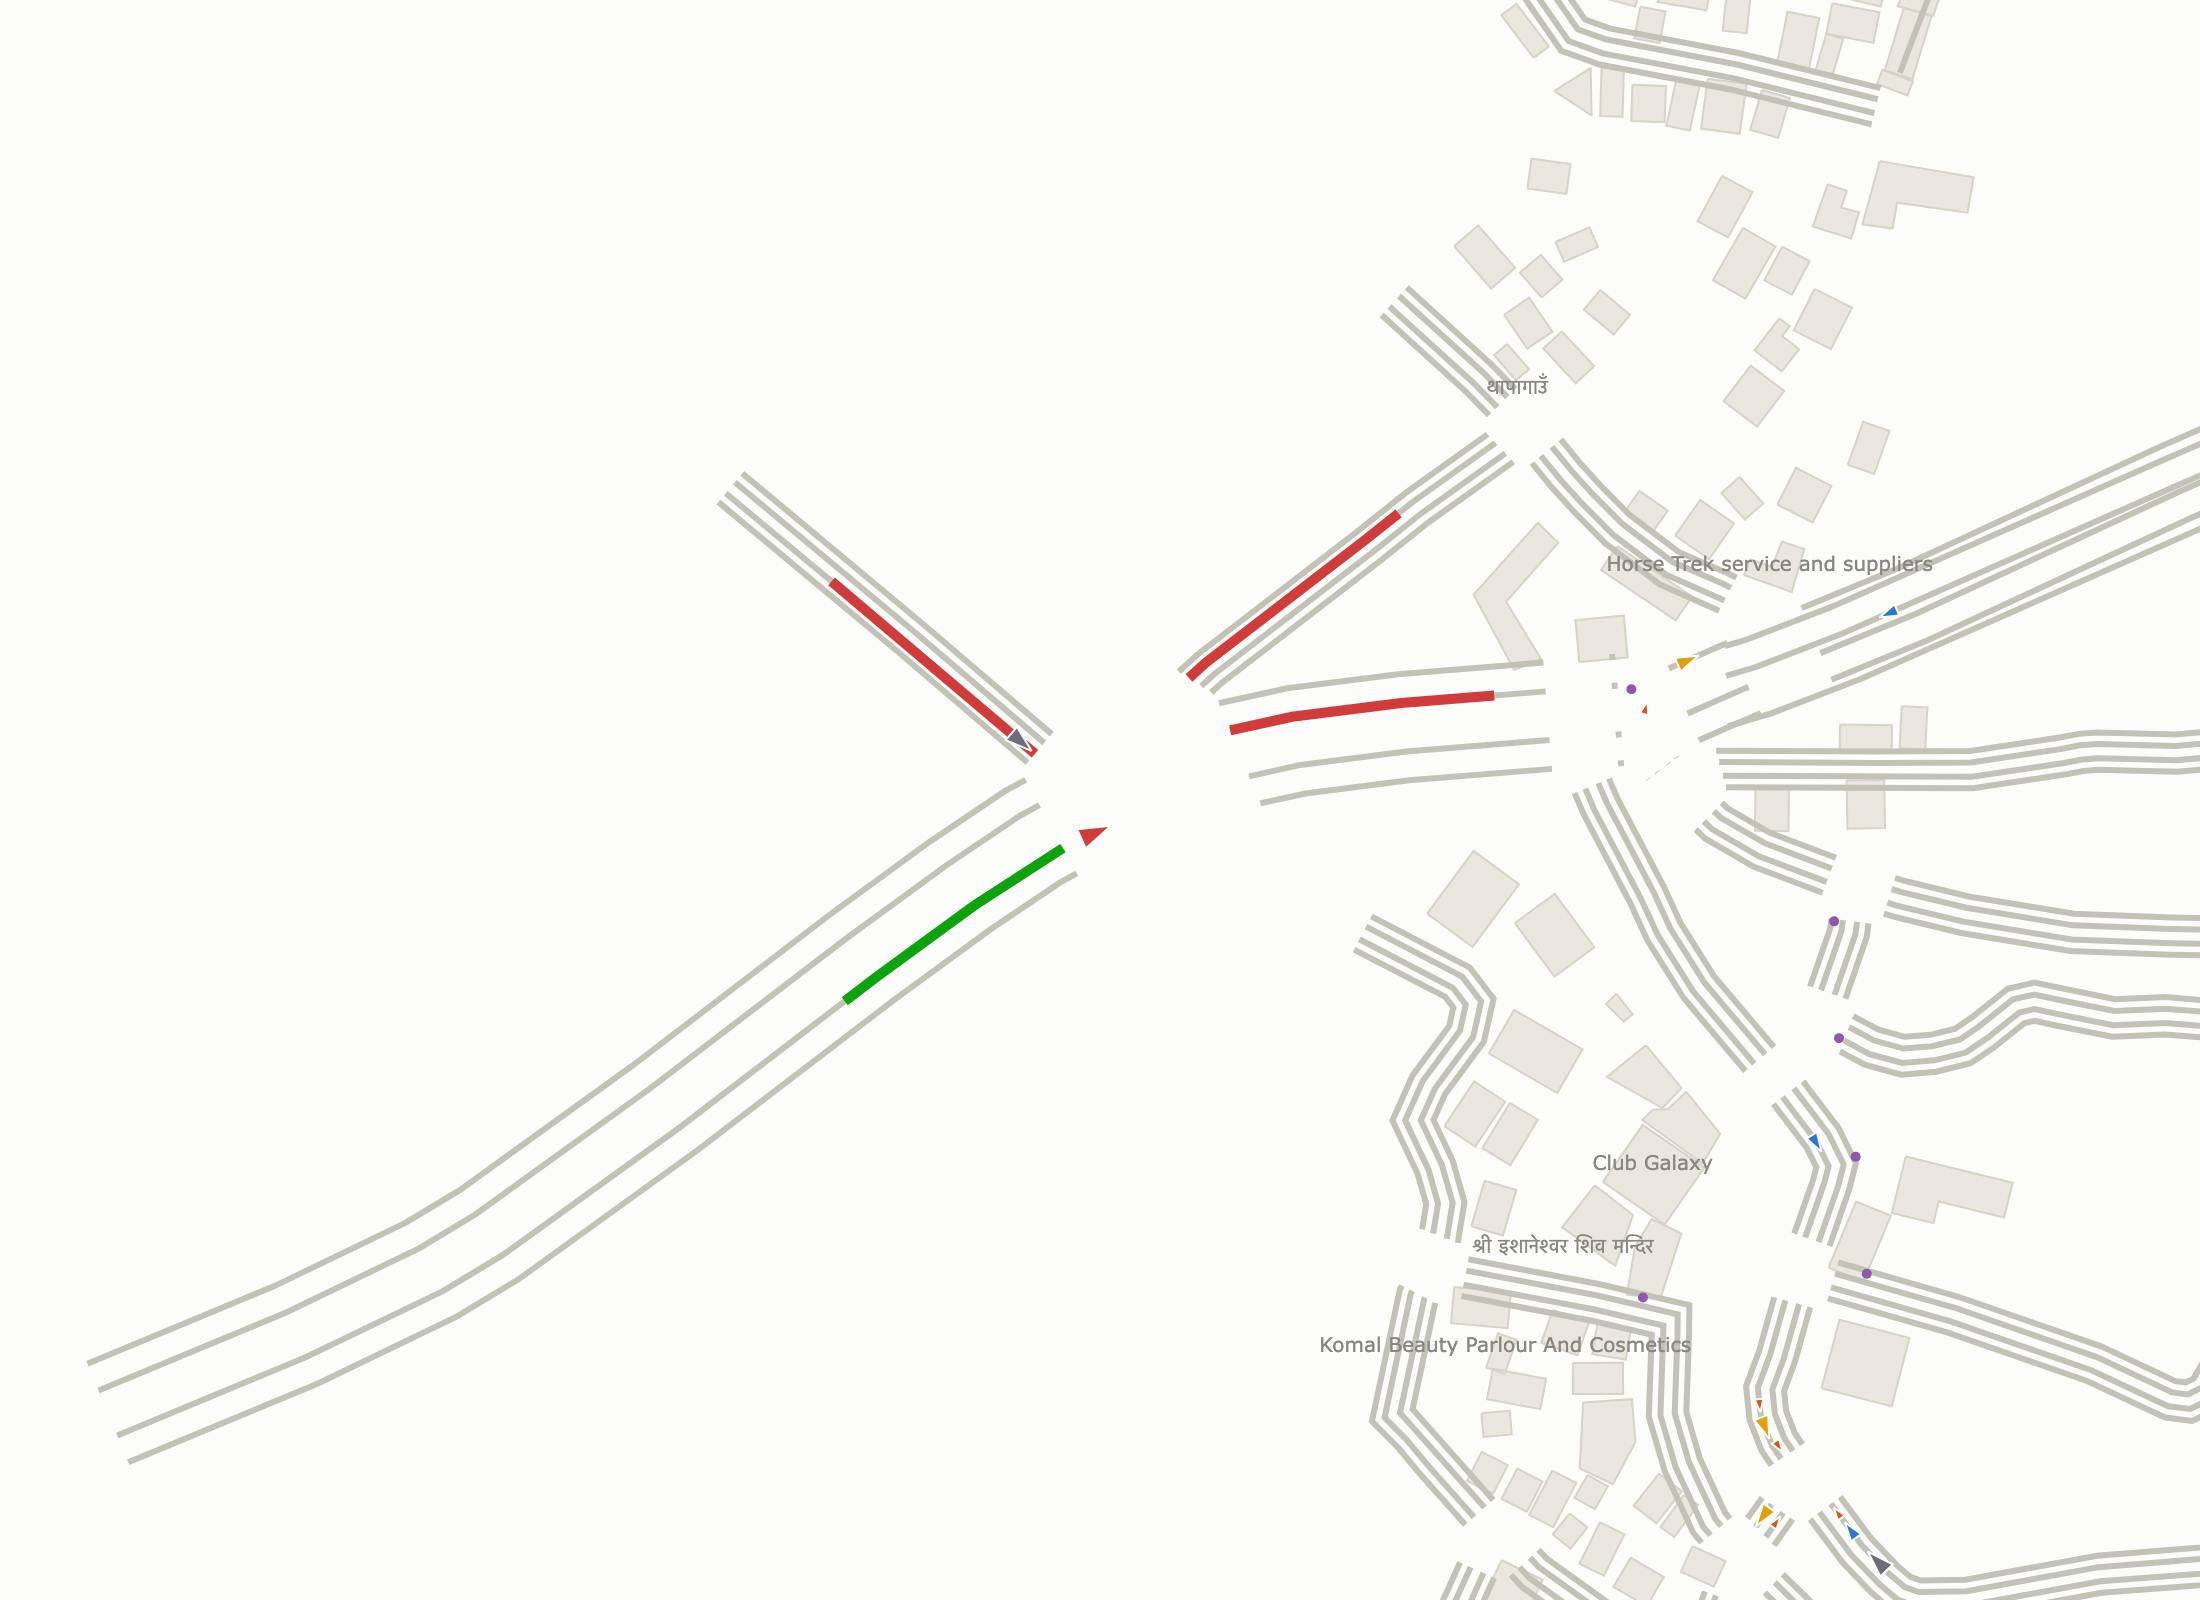
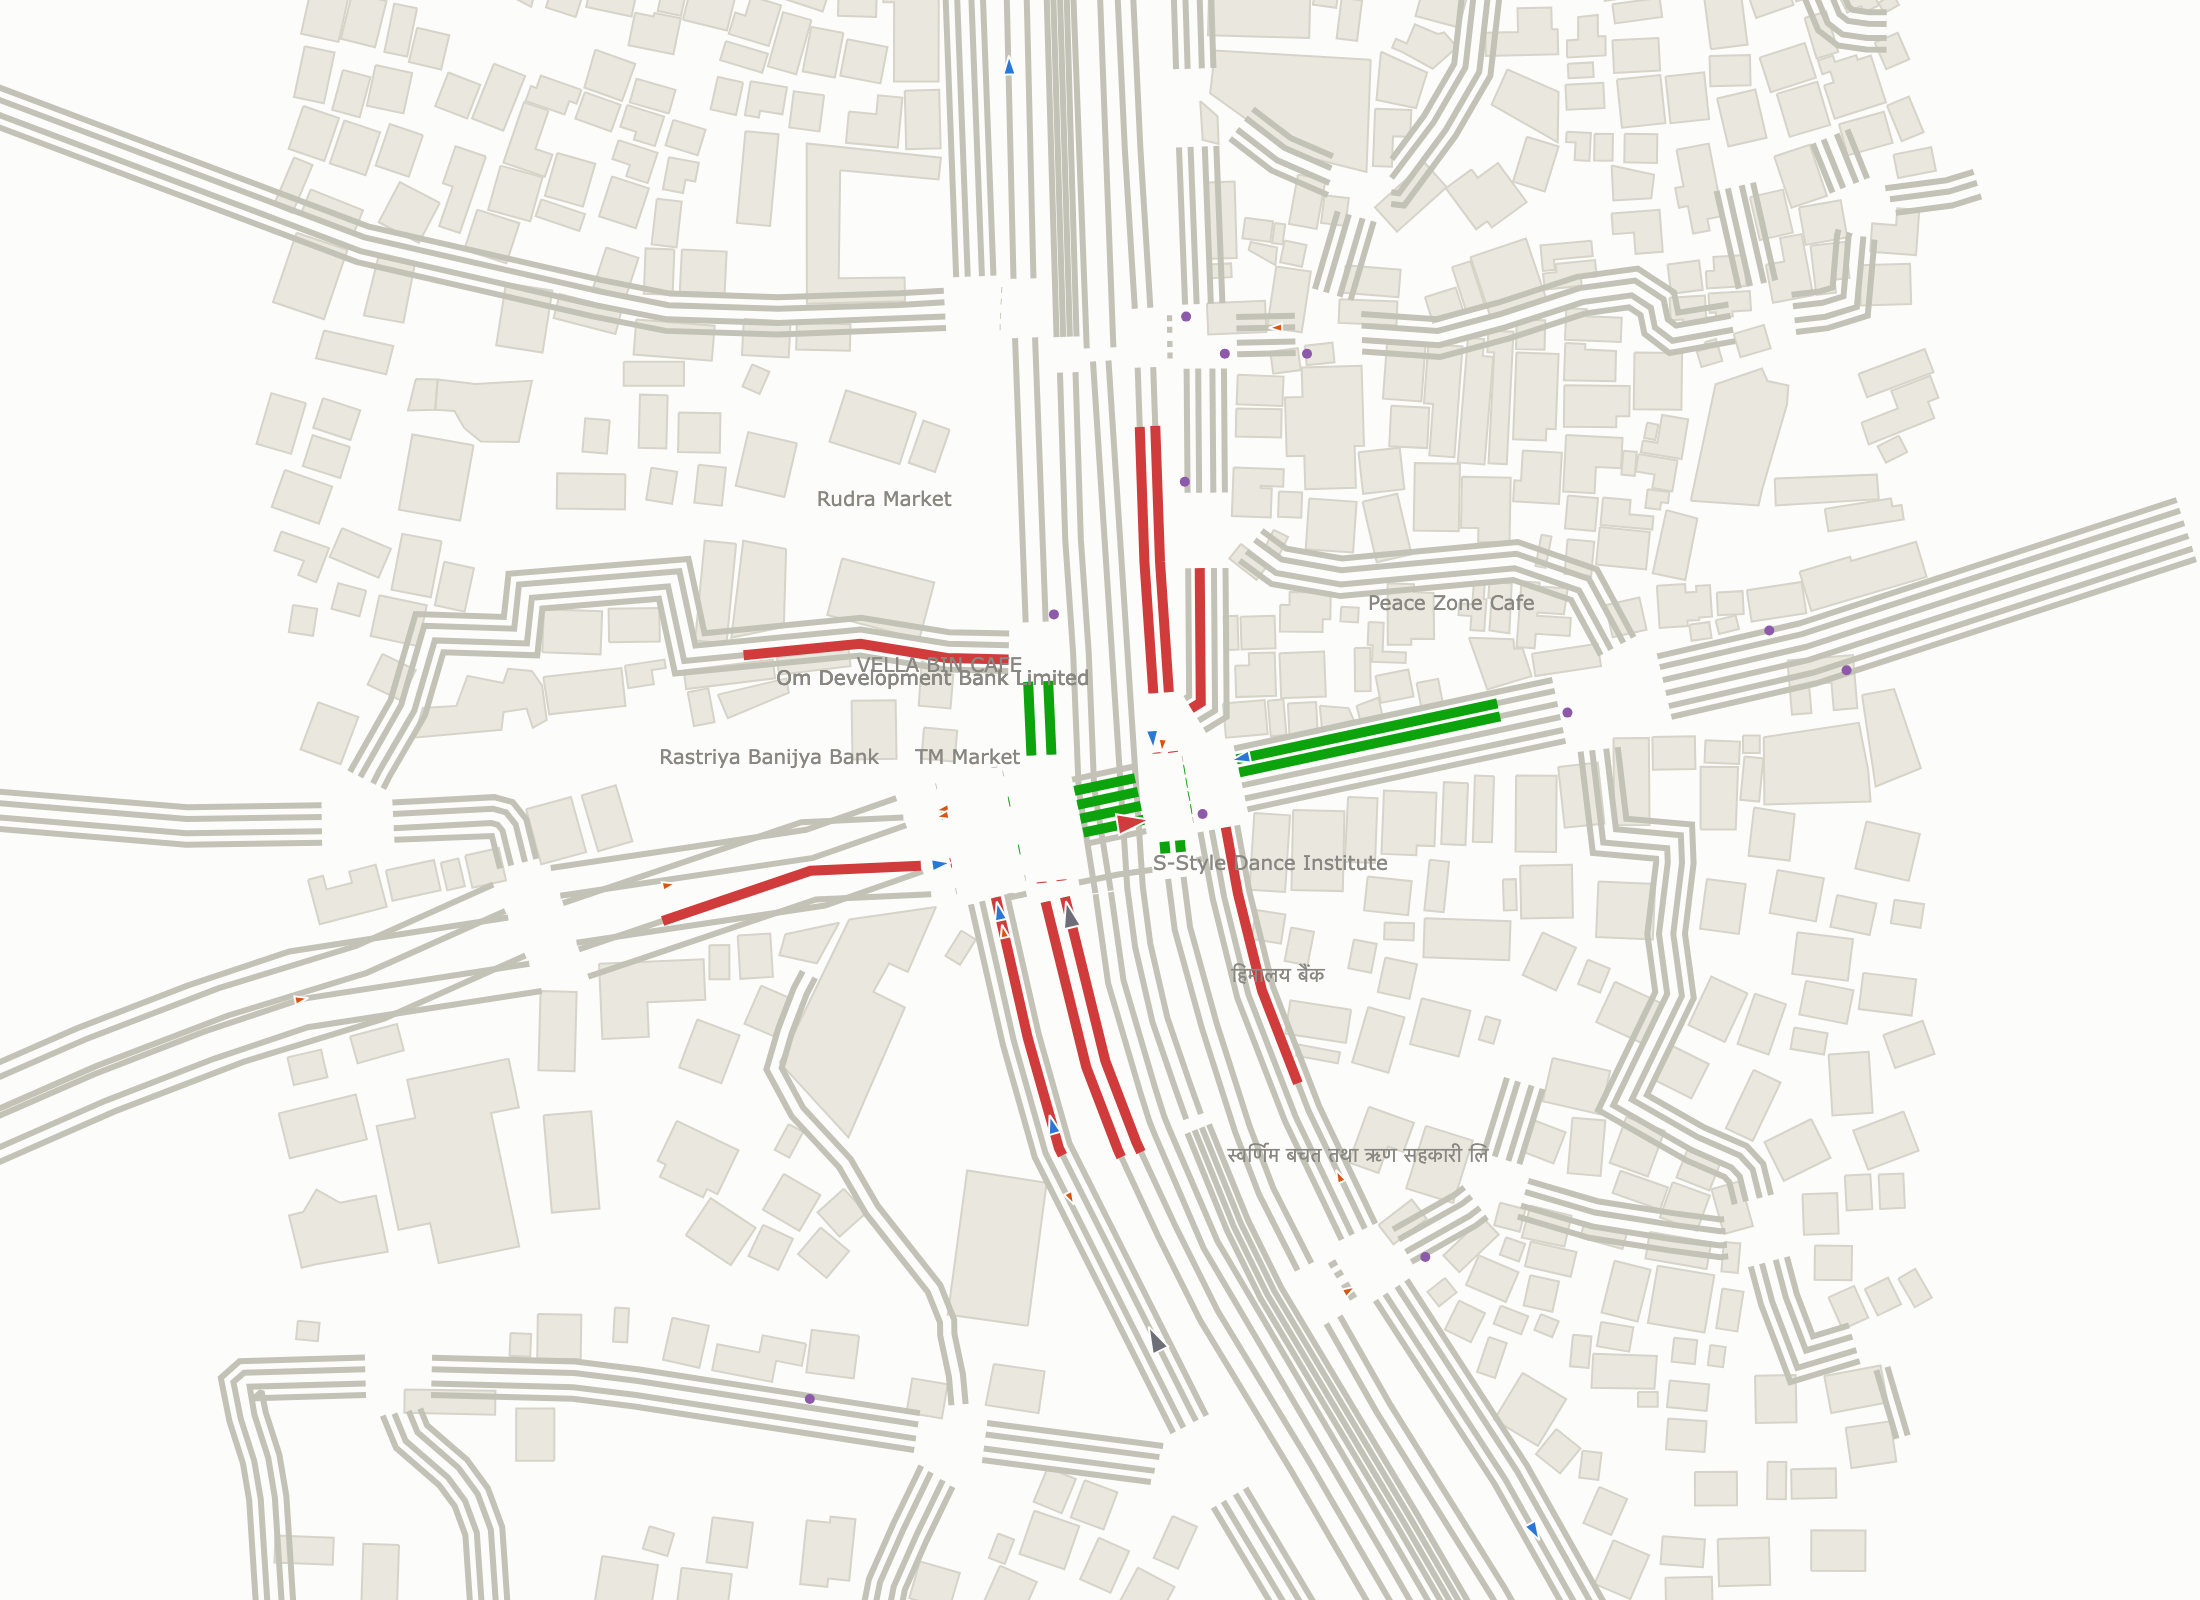
docs+ml: real-chowk headline (80% ± 4), retrained RF, new screenshots
ML retrained on the new junction's demand range: 402 rows, R² 0.777,
MAE 4.4 s. Final 5-seed headline on the true Kalanki Chowk: wait cut
80% ± 4 (72–84%), 1363 -> 276 s/cycle, throughput up on every seed
(150 -> 161). README/VIVA_QA/DEMO_SCRIPT rewritten for the real
interchange (underpass + joint signal), including an honest answer for
'why 80% now, not 97%'. Screenshots re-shot on the real chowk.

diff --git a/docs/VIVA_QA.md b/docs/VIVA_QA.md
@@ -7,13 +7,14 @@ A fixed timer gives every approach the same green (25 s here) in strict
 rotation regardless of demand — empty lanes waste green while queued lanes
 overflow. Adaptive control measures each approach every cycle (vehicle count
 + accumulated waiting time) and allocates green proportional to demand. On
-identical peak demand at the real 8-phase Kalanki junction (with sublane
-motorbike weaving on), our adaptive mode cut average junction wait
-97.2% ± 0.7 (96.3–98.1% across 5 random seeds; mean 354 → 10 s/cycle) at
-essentially unchanged throughput (330 → 326 mean) — the fixed timer wastes
-whole green slots on empty turn phases, the adaptive controller skips
-them. The spread across seeds shows it is not one lucky run: the per-seed
-table is in the dashboard and logs/.
+identical peak demand at the true Kalanki Chowk — the joint signal over
+the whole surface interchange, Ring Road underpass flowing beneath — our
+adaptive mode cut average junction wait 80% ± 4 (72–84% across 5 random
+seeds; mean 1363 → 276 s/cycle) and moved more vehicles on every seed
+(mean throughput 150 → 161) — the fixed timer wastes whole green slots on
+empty approaches, the adaptive controller skips them. The spread across
+seeds shows it is not one lucky run: the per-seed table is in the
+dashboard and logs/.
 
 **2. How is green time computed?**
 Two estimates blended. Rule: `green = vehicle_count × 2 s/vehicle`, clamped
@@ -49,10 +50,10 @@ Automatic; re-triggering is idempotent (the original snapshot is kept).
 ## Second ring
 
 **Why Random Forest?**
-Tabular data, small dataset (438 rows), non-linear interactions between
+Tabular data, small dataset (402 rows), non-linear interactions between
 count/wait/growth-rate, no GPU, and interpretable feature importances. It
-beat LinearRegression and a single DecisionTree on held-out data (R² 0.576,
-MAE 2.7 s). Deep learning would be unjustifiable at this data size.
+beat LinearRegression and a single DecisionTree on held-out data (R² 0.78,
+MAE 4.4 s). Deep learning would be unjustifiable at this data size.
 
 **Where does the training label come from?**
 For each control cycle we measure the discharge rate actually observed
@@ -91,22 +92,23 @@ TraCI traffic single-threaded.
 
 **How are pedestrians handled?**
 The network is rebuilt with guessed sidewalks and zebra crossings (337 at/
-around Kalanki); 1800 persons walk and cross during a run. Crossings are
+around Kalanki); ~1200 persons walk and cross during a run. Crossings are
 signal links inside the same TLS state strings, so they get their walk
 signal within the compatible vehicle phases netconvert paired them with.
 The controller's approach discovery skips pedestrian-only phases so a
 crossing never gets treated as a vehicle approach.
 
-**Why did the wait reduction jump from ~73% to ~97%?**
-The realistic rebuild exposed the junction's true 8 signal phases (straight
-+ protected turns) instead of 4. A fixed timer must give each of the 8
-phases an equal 25 s slot — 240 s cycles with green burned on empty turn
-phases — while the adaptive controller simply skips what is empty. Bigger,
-more realistic junction → bigger advantage for adaptive control.
+**Earlier drafts claimed ~97% — why is the final headline 80%?**
+Because the junction got real. Early numbers came from a simpler junction
+500 m from the actual chowk; rebuilding on the true Kalanki Chowk (a joint
+signal across the whole surface interchange, the Ring Road underpass
+underneath, calibrated demand, pedestrians) makes the problem much harder
+and the baseline less absurd. 80% ± 4 on the honest junction — with
+throughput UP on every seed — is the defensible number.
 
 **Limitations (be honest, it scores points)**
 Simulated demand (though the mix is calibrated to Kathmandu shares), one
-junction (no corridor coordination), and the ML dataset is modest (438
+junction (no corridor coordination), and the ML dataset is modest (402
 rows — more episodes would improve it). Motorbike weaving IS modeled:
 SUMO's sublane model runs with 0.4 m lateral resolution, and motorbikes
 (latAlignment="arbitrary", tight lateral gaps, high lcPushy/lcSublane)

diff --git a/docs/BUILD_LOG.md b/docs/BUILD_LOG.md
@@ -206,3 +206,37 @@ check results, and anything the user must verify or fix.
 - README gained real screenshots (docs/img/): the live dashboard map mid
   ambulance-dispatch and the zoomed sumo-gui view.
 - 52 tests green; every increment committed + pushed.
+
+## Phase 10 — the real Kalanki Chowk ✅ verified
+
+Triggered by Biraj's Google Maps cross-check: the signalized junction was
+a Rajpath junction ~500 m west of the actual chowk.
+
+- **Correct junction**: build picks the node where the most distinct named
+  roads meet (Tribhuvan Rajpath × Ring Road × Kalanki), then signalizes
+  the chowk's whole surface web (10 nodes) as one joint TLS. Tunnel nodes
+  are detected from OSM `tunnel=yes` ways and excluded — the **real
+  Kalanki underpass** carries the Ring Road beneath the signal,
+  uncontrolled, exactly like the built structure. (Merging the web into
+  one node via <join> was tried and rejected: lost approaches, worse
+  waits.) 8 operator approaches with real street names.
+- **Auto-shutdown fixed**: demand now runs to 7200 s and `--steps 0`
+  (new CLI default) runs until the window closes.
+- **Names in sumo-gui**: "Kalanki Chowk" label at the junction (POI id
+  carries the text — poiName renders ids; NBSP for spaces; Devanagari
+  dropped, X11 fonts can't shape it) + native streetName rendering along
+  every road; decorative OSM POI numbers stripped from the poly file.
+- **Stability work (measured, iteratively)**: sustained heavy demand or
+  one pedestrian wedged on a crossing made waits grow without bound.
+  Fixes: pedestrian jamtime 20 s, ignore-junction-blocker 30 s, teleport
+  180 s, pedestrian demand at period 6.0, peak calibrated to 2.8 s
+  insertions (stable 30+ min: waits 283 → 710 → 798 by third), day curve
+  9/4/2.4/5/9 (wait 14 → 542 at rush → 52 by evening).
+- **ML retrained** for the new junction's demand range (episodes 1.6–10 s):
+  402 rows, RandomForest R² 0.777 / MAE 4.4 s (was 0.576 / 2.7).
+- **New headline (5 seeds, 600 s peak): adaptive+ML cuts average wait
+  80% ± 4 (72–84%), mean 1363 → 276 s/cycle, throughput up on every seed
+  (mean 150 → 161).** Honest note: smaller percentage than the old
+  wrong-junction number — the junction is real now and the story is
+  stronger for it.
+- README screenshots re-shot on the real chowk; 53 tests green.

diff --git a/README.md b/README.md
@@ -3,25 +3,31 @@
 An adaptive, AI-driven traffic signal control system simulated on a real
 Kathmandu intersection (default: **Kalanki**), with an operator dashboard.
 
-**Headline result:** on identical peak demand at the real 8-phase Kalanki
-junction (sublane motorbike weaving on), adaptive+ML control cuts average
-junction wait by **97.2% ± 0.7 (range 96.3–98.1% across 5 random seeds)** —
-mean wait 354 → 10 s/cycle at unchanged throughput — vs a classic fixed
-timer, which wastes green time on empty turn phases.
+**Headline result:** on identical peak demand at the true Kalanki Chowk —
+Ring Road × Tribhuvan Rajpath, modeled with its real underpass (Ring Road
+flows beneath, uncontrolled) and a joint signal across the whole surface
+interchange — adaptive+ML control cuts average junction wait by
+**80% ± 4 (range 72–84% across 5 random seeds)**, mean wait
+1363 → 276 s/cycle, and moves **more vehicles on every seed**
+(mean throughput 150 → 161) vs a classic fixed timer.
 
 ![Live dashboard junction view — ambulance corridor active](docs/img/dashboard-junction.png)
-*Dashboard live map during an ambulance dispatch: the corridor approach is
-green, every other approach red, the ambulance (large red arrow) inbound.
-Buildings and place names are real OSM data.*
+*Dashboard live map during an ambulance dispatch at Kalanki Chowk: the
+corridor is green, every other approach red, the ambulance (red arrow) at
+the junction. Buildings and place names are real OSM data.*
 
 ![sumo-gui zoomed on the Kalanki signals](docs/img/sumo-gui-kalanki.png)
-*sumo-gui opens centered on the junction with readable signal stop bars.*
+*sumo-gui opens centered on the chowk: named streets, the Ring Road
+underpass box, zebra crossings, and readable signal stop bars.*
 
 ## Realistic by construction
 
 - **Real roads & buildings** — geometry, building footprints, and named
   places (the actual temple, shops, and clubs around Kalanki) all come from
-  OpenStreetMap.
+  OpenStreetMap, cross-checked against Google Maps.
+- **The real interchange** — the signal sits on the actual Kalanki Chowk
+  surface crossing while the Kathmandu Ring Road dives beneath it through
+  the real underpass, exactly like the built structure.
 - **Real traffic mix** — 45% motorbikes, 30% cars, plus microbuses, buses,
   and trucks, with true sizes and driving profiles (Kathmandu valley shares).
 - **Pedestrians** — 1800 people walking on guessed sidewalks and zebra
@@ -29,8 +35,9 @@ Buildings and place names are real OSM data.*
 - **Motorbike weaving** — SUMO's sublane model (0.4 m lateral resolution):
   bikes filter between queued cars to the stop line, like real Kalanki.
 - **Rush-hour rhythm** — a "Full day" scenario compresses dawn → school
-  rush → office peak → lull → evening into 30 minutes; watch junction
-  pressure rise ~1000× at peak while adaptive control keeps it flowing.
+  rush → office peak → lull → evening into 30 minutes; junction wait rises
+  ~14 → 540 s at rush and recovers to ~50 s by evening under adaptive
+  control, with green times tracking the curve.
 - **Live tracking** — follow any vehicle on the dashboard map: type, speed,
   accumulated wait, current street.
 

diff --git a/docs/DEMO_SCRIPT.md b/docs/DEMO_SCRIPT.md
@@ -68,19 +68,20 @@ streamlit run dashboard/app.py
 
 When the comparison finishes, point at the headline:
 
-**"Same demand, same junction: the fixed timer averages ~354 s of junction
-wait per cycle; our adaptive system averages ~10 s — a 97.2% reduction,
-consistent across 5 random seeds (96.3–98.1%) — at the same throughput.
-The real Kalanki junction has 8 signal phases including turn phases; a
-fixed timer wastes green on empty ones, the adaptive system skips
-them."** (For the seed table live, use **Run 5-seed comparison** — it
+**"Same demand, same junction: this is the real Kalanki Chowk — the Ring
+Road flows under it through the actual underpass while the signal controls
+the whole surface interchange. The fixed timer averages ~1360 s of
+accumulated junction wait per cycle; our adaptive system averages ~280 s —
+an 80% reduction, consistent across 5 random seeds (72–84%) — and it moves
+more vehicles on every seed. A fixed timer wastes green on empty
+approaches; the adaptive system skips them."** (For the seed table live, use **Run 5-seed comparison** — it
 takes a few minutes, so run it before the demo or show `logs/`.)
 
 ## 5. Close (30 s)
 
-**Say:** "The ML model is a Random Forest trained on 438 control cycles from
-ten simulated demand scenarios with the full Kathmandu vehicle mix (R² 0.58,
-mean error ~2.7 s). And the design is sensor-ready: one clearly marked
+**Say:** "The ML model is a Random Forest trained on 402 control cycles from
+ten simulated demand scenarios with the full Kathmandu vehicle mix (R² 0.78,
+mean error ~4.4 s). And the design is sensor-ready: one clearly marked
 function in `sumo_env.py` is where a real camera feed would plug in —
 nothing else changes."
 